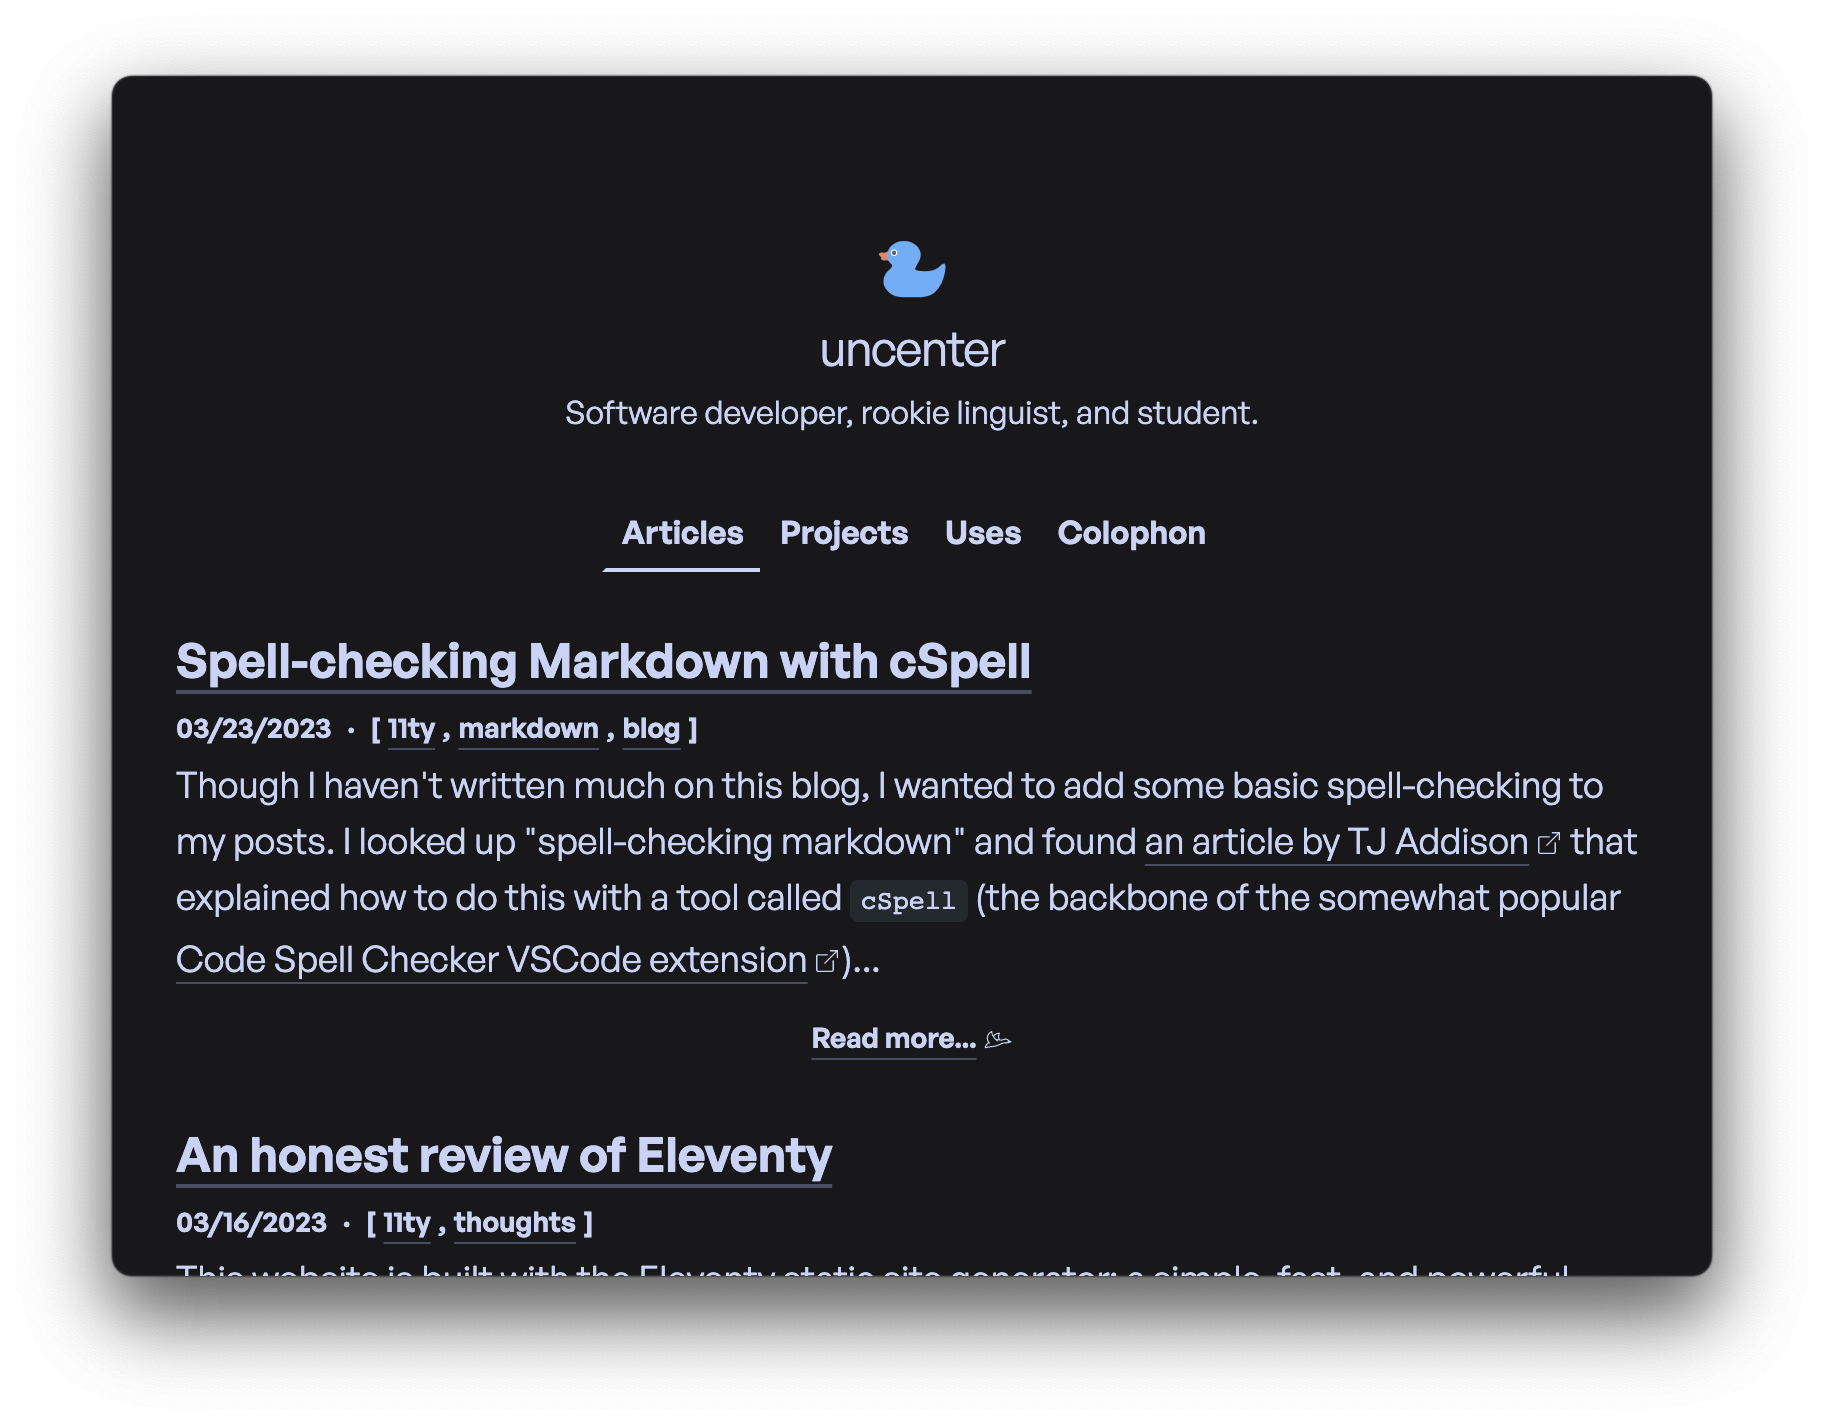
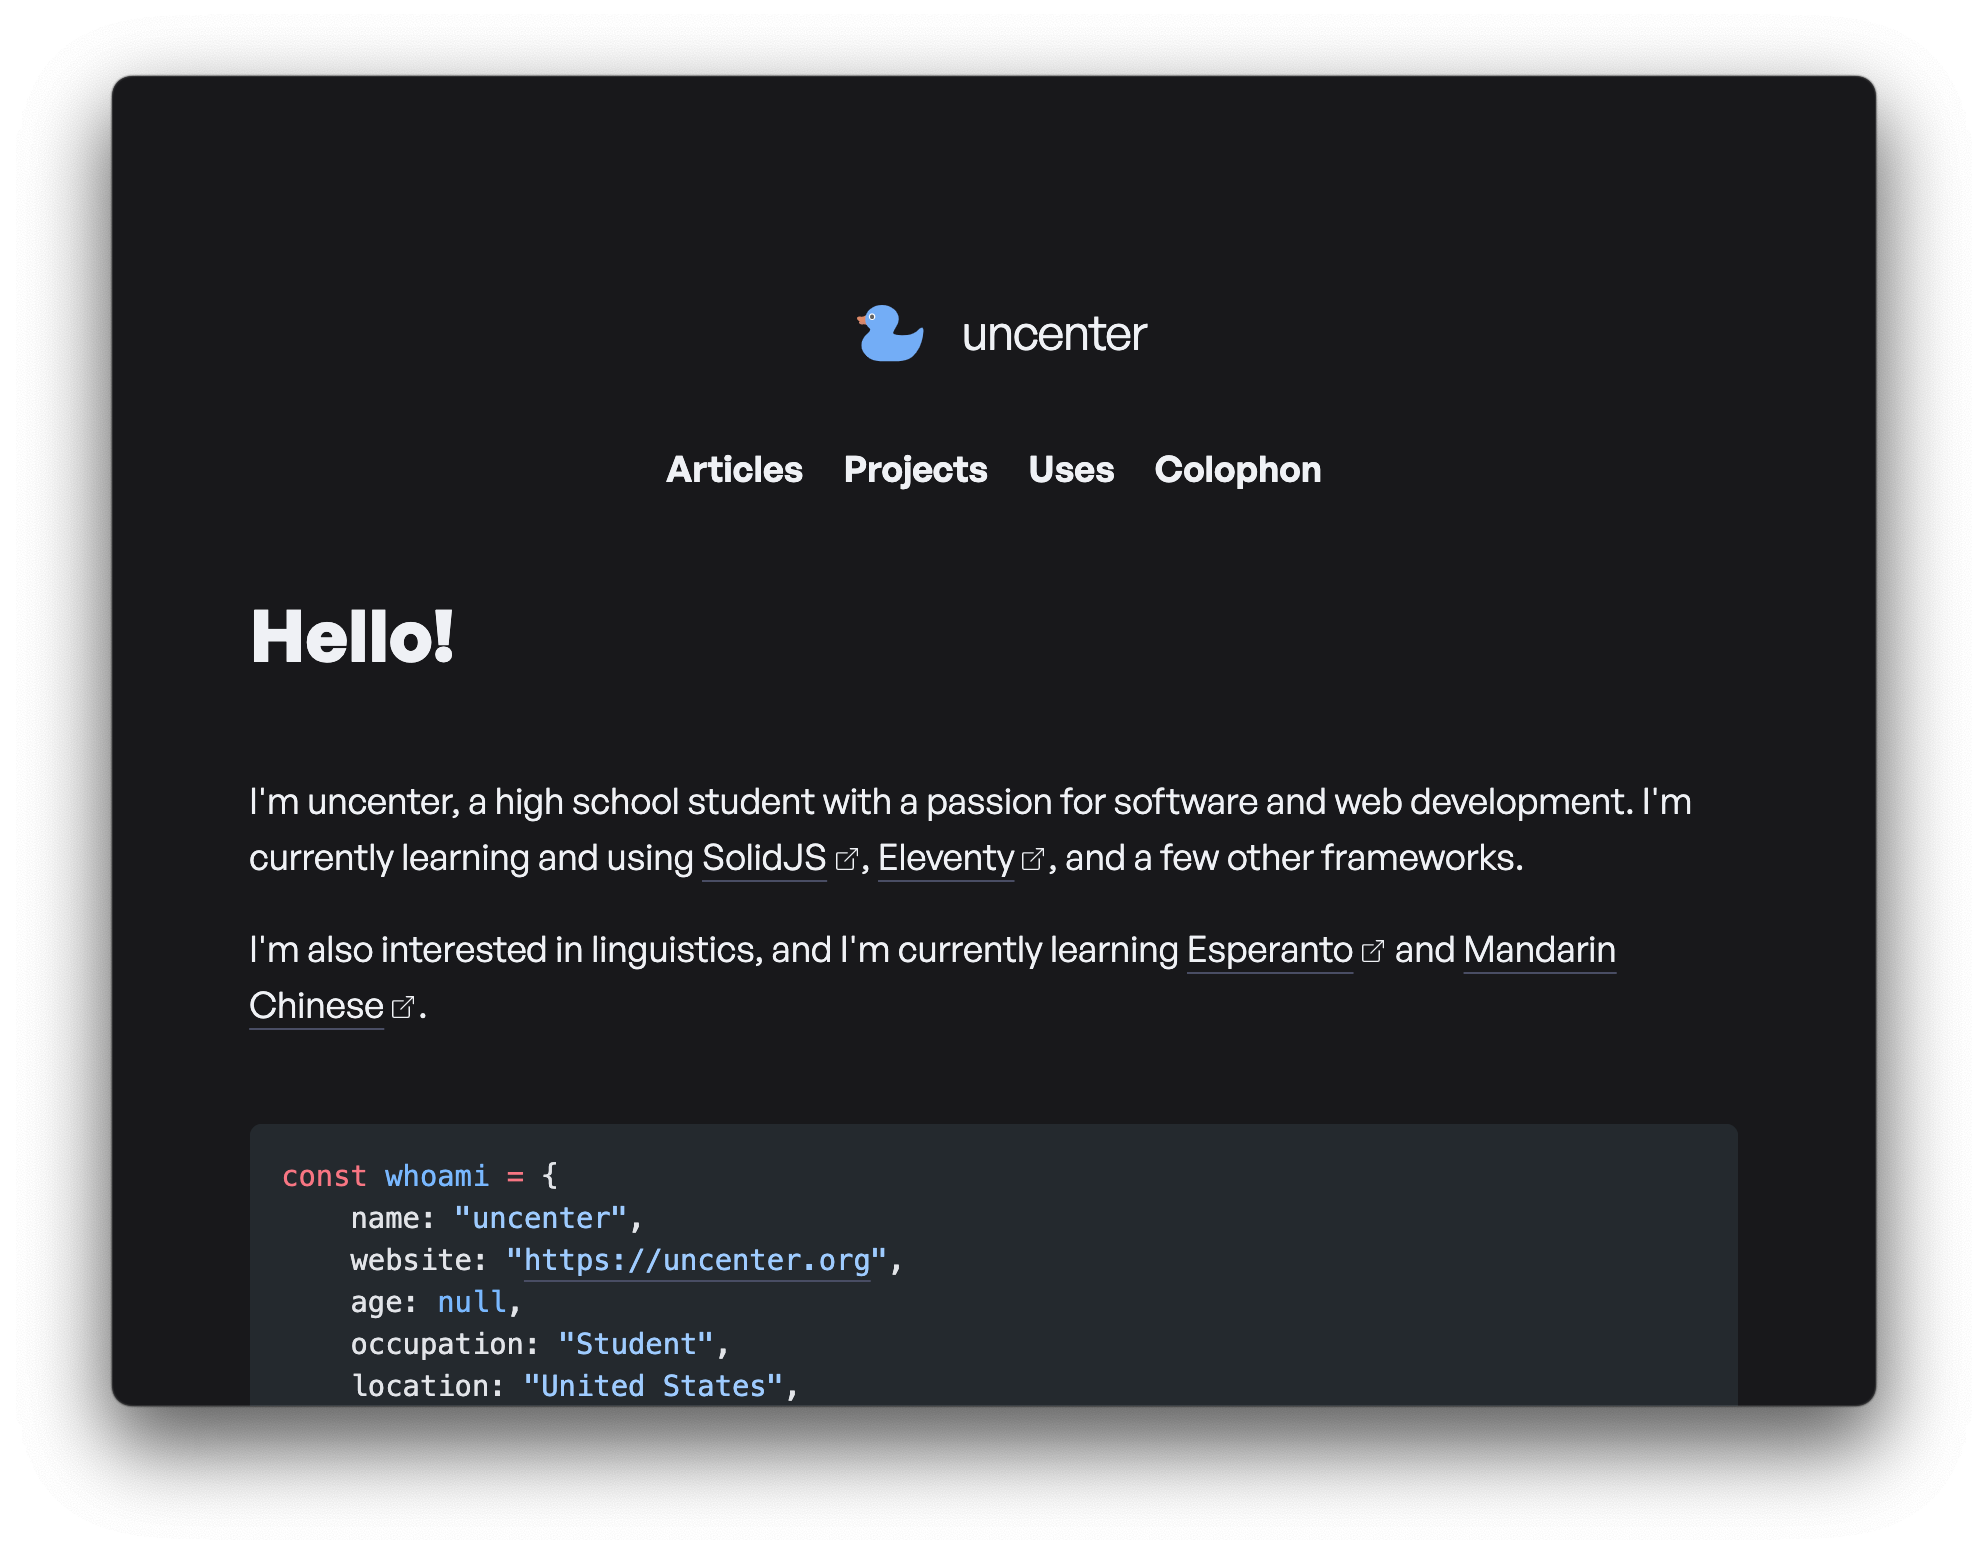
chore: update home screenshots, remove sections of readme

diff --git a/README.md b/README.md
@@ -6,11 +6,15 @@
 
 ![Wakatime](https://wakatime.com/badge/user/44269a44-02c2-486c-a2ea-494b7071737e/project/37a0a8c7-515a-4f8e-90bc-cfab440d9035.svg?style=for-the-badge)
 
-This is my personal website, made with [11ty](https://www.11ty.dev/), Shiki, and [Tailwind CSS](https://tailwindcss.com/).
+This is my personal website, made with [11ty](https://www.11ty.dev/) and [Tailwind CSS](https://tailwindcss.com/).
 
 <picture>
     <source srcset="/images/home-dark.png" media="(prefers-color-scheme: dark)">
-    <img src="/images/home-light.png" alt="Screenshot of my website's homepage">
+    <img src="/images/home-light.png" alt="Screenshot of my website's homepage, tablet/mobile view">
+</picture>
+<picture>
+    <source srcset="/images/home-full-dark.png" media="(prefers-color-scheme: dark)">
+    <img src="/images/home-full-light.png" alt="Screenshot of my website's homepage, desktop view">
 </picture>
 </div>
 
@@ -22,38 +26,24 @@ If you see any issues or have any suggestions for the website, please open an is
 
 ### Features
 
-- **OG preview images** for posts and pages using [Satori](https://github.com/vercel/satori) and [Sharp](https://sharp.pixelplumbing.com/)
+- **OG preview images** for posts and pages using [Satori](https://github.com/vercel/satori) and [`sharp`](https://sharp.pixelplumbing.com/)
 - **Syntax highlighting** for posts using [`shiki`](https://github.com/shikijs/shiki), configured based on [Raphael Höser's implementation](https://www.hoeser.dev/blog/2023-02-01-syntax-highlight/)
 - **Optimized images** with [`eleventy-img`](https://github.com/11ty/eleventy-img)
-- **RSS feed** for blog posts using [`eleventy-plugin-rss`](https://github.com/11ty/eleventy-plugin-rss)
-- **Spell-checking** for posts using [`cspell`](http://cspell.org/)
+- **RSS feed** using [`eleventy-plugin-rss`](https://github.com/11ty/eleventy-plugin-rss)
+- **Spell-checking** for posts through [`cspell`](http://cspell.org/)
 - **Optimized CSS, JS, and HTML** using [`postcss`](https://postcss.org/), [`UglifyJS`](https://github.com/mishoo/UglifyJS), and [`html-minifier`](https://github.com/kangax/html-minifier)
-
-### Structure
-
-- `utils/`: scripts, utilities, & plugins:
-  - `utils/dicts/`: dictionary text files for spell-checking (cSpell)
-  - `utils/plugins/`: plugins for 11ty, imported in various places - currently holds `shikier.js` for syntax highlighting, `markdown.js` as the Markdown library, and `prevImg/` for generating preview images
-- `images/`: images for posts and pages, optimized during build
-- `src/`: the source files for 11ty
-  - `src/_data/`: data files - `inlined.js` holds minified CSS and JS files for inlining in templates, `now.js` fetches the current date and time, and the other three JSON & JS files hold metadata for projects and in general
-  - `src/_assets/`: static assets such as images, fonts, and icons, as well as the CSS and JS files
-  - `src/posts/*.md`: blog posts, written in Markdown
-  - `src/pages/`: root pages
-  - `src/_includes/`: components and sections
-  - `src/_layouts/`: layouts - `index.njk` is the main layout with all metadata and required fields, `post.njk` is the layout for blog posts, and `page.njk` is the layout for root pages
-  - `src/_11ty/`: 11ty filters, shortcodes, collections (imported as plugins in `eleventy.config.js`)
-    - `src/_11ty/utils/`: utility functions used throughout the site
 
 ### Environment Variables
 
 - `UMAMI_TOKEN`: the API token for fetching analytics data from [Umami](https://umami.is/)
+- `UMAMI_USERNAME`
+- `UMAMI_PASSWORD`
 
 ## Credits
 
 Many thanks to the 11ty community for their contributions to the community, without which this website would not be possible- thanks to [Raphael Höser](https://www.hoeser.dev/), Stephanie Eckles for [11ty.rocks](https://11ty.rocks/), [Learn Eleventy from Scratch](https://learneleventyfromscratch.com/), [11ty.recipes](https://11ty.recipes/) by Mike Aparicio, [Bernard Nijenhuis' notes](https://bnijenhuis.nl/), and more.
 
-Generic icons sourced from [Lucide](https://lucide.dev/) and technology and development icons from [Simple Icons](https://simpleicons.org/).
+Generic icons sourced from [Lucide](https://lucide.dev/) and brand icons from [Simple Icons](https://simpleicons.org/).
 
 ## License
 
